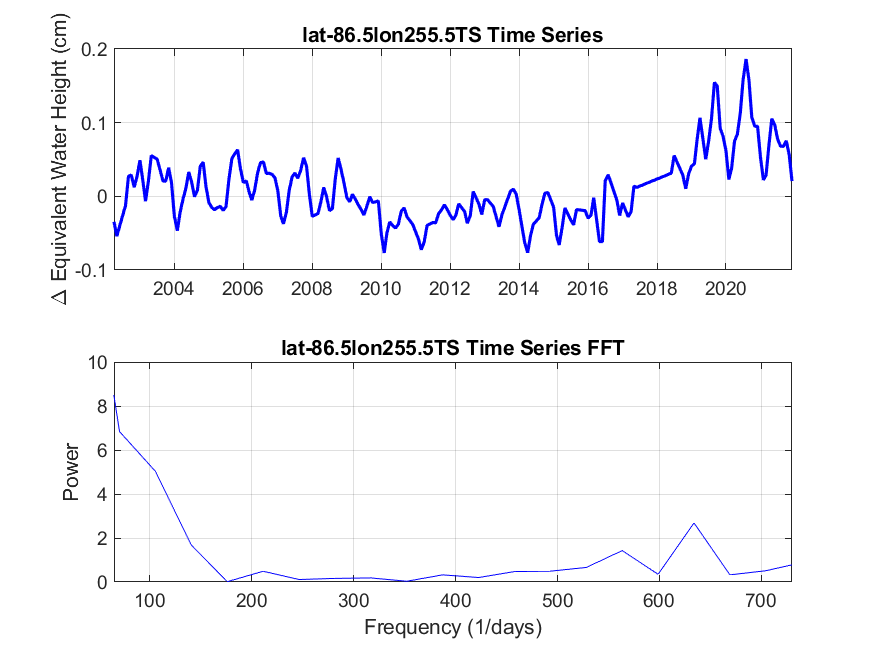
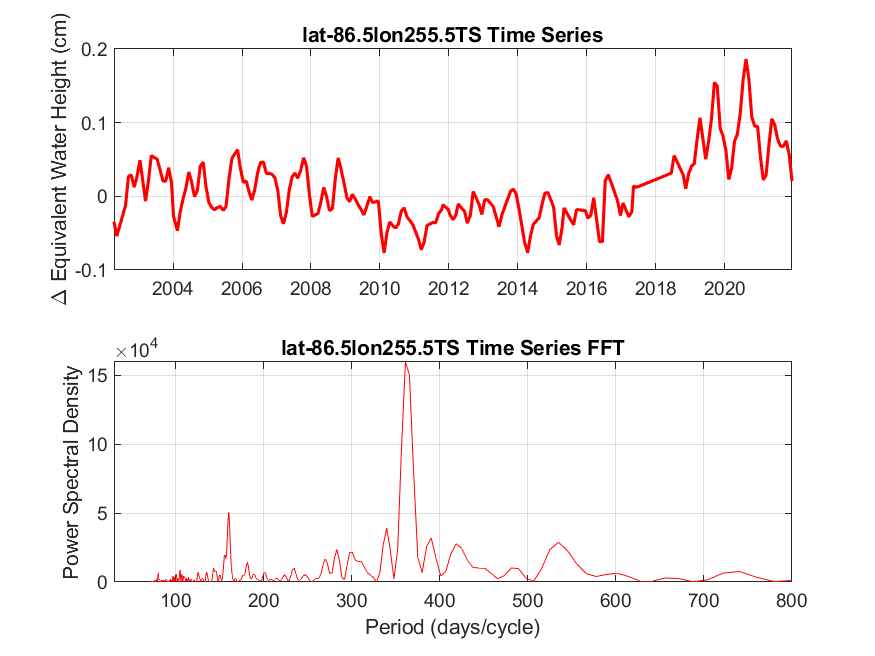
ffts redone with lomb-scargle

diff --git a/data/spectrum/specplot.m b/data/spectrum/specplot.m
@@ -8,18 +8,35 @@
 
 function specplot(ds, lats, lons, save)
 tic
-%set(0,'DefaultFigureWindowStyle','docked')  
+set(0,'DefaultFigureWindowStyle','docked')
 currentdir = cd;
-t1 = datetime(2002, 04, 01);
-t2 = datetime(2021, 12, 01);
-time = t1:calmonths(1):t2;
-tstime = time';
-missing = [3 4 15 106 111 122 127 132 137 138 143 148 ...
-           153 159 163 164 169 174 175 179 184:194 ...
-           197 198]; % months to skip
-tstime(missing) = [];
-duration = t2-t1;
-dduration = days(duration);
+
+% Retrying with days instead of months
+leap = ones(1, 20) .* 365;
+leap(4:4:end) = 366;
+leap(1) = 0;
+addin = cumsum(leap);
+addin = repelem(addin, 12);
+addin(1:3) = [];
+addin = addin';
+
+dates = readmatrix('gfodates.csv', 'Range', [2 1 238 3]);
+mask = isnan(dates(:, 1));
+dates(mask, :) = [];
+addin(mask) = [];
+
+startDay = dates(:,2); % start day of each dataset
+endDay = dates(:,3); % end day of each dataset
+mask2 = endDay < startDay;
+endDay(mask2) = endDay(mask2) + 365;
+avgDay = (startDay + endDay)/2;
+tsdays =  avgDay + addin; % time in days
+tsdays = tsdays - tsdays(1); % days from first day, first day = 0
+tsdays = floor(tsdays);
+
+% converting to datetime for regular plot
+t1 = datetime(2002, 04, 15);
+tstime = t1 + caldays(tsdays);
 
 for d = 1:length(ds)
 % Dataset selection - loops through each dataset
@@ -35,16 +52,19 @@ case 4 % CSR L3
        outdir = fullfile(currentdir, './images/CSR');
        data=load(sprintf('%s/matvars/CSR/data.mat', currentdir));
        data = data.data;
+       linecolor = 'r';
 
 case 5 % GFZ L3
        outdir = fullfile(currentdir, './images/GFZ');
        data=load(sprintf('%s/matvars/GFZ/data.mat', currentdir));
        data = data.data;
+       linecolor = 'g';
 
 case 6 % JPL L3
        outdir = fullfile(currentdir, './images/JPL');
        data=load(sprintf('%s/matvars/JPL/data.mat', currentdir));
        data = data.data;
+       linecolor = 'b';
 
 % case 7 % JPL Mascons
         
@@ -52,16 +72,19 @@ case 8 % Cumulative CSR L3
        outdir = fullfile(currentdir, './images/cCSR');
        data=load(sprintf('%s/matvars/cCSR/data.mat', currentdir));
        data = data.data;
+       linecolor = 'r';
 
 case 9 % Cumulative GFZ L3
        outdir = fullfile(currentdir, './images/cGFZ');
        data=load(sprintf('%s/matvars/cGFZ/data.mat', currentdir));
        data = data.data;
+       linecolor = 'g';
 
 case 10 % Cumulative JPL L3
        outdir = fullfile(currentdir, './images/cJPL');
        data=load(sprintf('%s/matvars/cJPL/data.mat', currentdir));
        data = data.data;
+       linecolor = 'b';
 
 % case 11 % Cumulative JPL Mascons
         
@@ -89,7 +112,7 @@ for a = 1:length(lats) % loops through all provided lats
     lon = lons(b); % sets up lat-lon pair
     col = 360*(lat+89.5) + (lon+0.5); % sketch, but determines ts col
     ts = data(3:end, col); % sets up yvalues
-    name = sprintf("lat%.1flon%.1fTS", lat, lon); % name based on lat lon pair
+    name = sprintf("lat%.1flon%.1f", lat, lon); % name based on lat lon pair
 
     if exist('save', 'var')
        if save == 1 || save == true
@@ -102,34 +125,29 @@ for a = 1:length(lats) % loops through all provided lats
     end
     tiledlayout(2,1) % sets up tile
 
-    nexttile  % regular plot
-    plot(tstime, ts, 'b-', 'LineWidth', 1.5) % plots ts for point
+    nexttile  % regular plot, with datetime array
+    plot(tstime, ts, linecolor, 'LineWidth', 1.5) % plots ts for point
     title(sprintf("%s Time Series", name))
     ylabel("\Delta Equivalent Water Height (cm)")
+
     %ylim([-6.8,1])
     grid on
 
     nexttile
     %name = sprintf("lat%.1flon%.1fFFT", lat, lon); % name based on lat lon pair
     %f = figure('Name', name, 'NumberTitle', 'off'); %'visible', 'off');
-    y = fft(ts);
-    n = length(y);
-    y(1)=[];
-    power = abs(y(1:floor(n/2))).^2; % first half power
-    maxf = 1/2; % maximum frequency ???
-    freq = (1:n/2)/(n/2)*maxf; % frequency grid
-    freq = freq.*dduration;
+    
+    % using Lomb-Scargle periodogram b/c uneven sampling
+    % tsdays = time sequence in days
+    % ts = lwe values
+    [Plomb, flomb] = plomb(ts, tstime);
+    flomb = flomb*60*60*24; % to days
+    period = 1./flomb; % days / cycle
 
-    %P2 = abs(s/L); % 2 sided spectrum
-    %P1 = P2(1:L/2+1); % 1 sided spectrum using length
-    %P1(2:end-1) = 2*P1(2:end-1);
-    %freq = Fs.*(0:(L/2))/L; % defines frequency domain
-    %freq = (0:(L/2))/L; % defines frequency domain
-
-    plot(freq, power, 'b') % plots fft for point
-    ylabel("Power")
-    xlabel("Frequency (1/days)")
-    xlim([65, 365.*2])
+    plot(period, Plomb, linecolor) % plots fft for point
+    ylabel("Power Spectral Density")
+    xlabel("Period (days/cycle)")
+    xlim([30, 800])
     title(sprintf("%s Time Series FFT", name))
     grid on 
 
